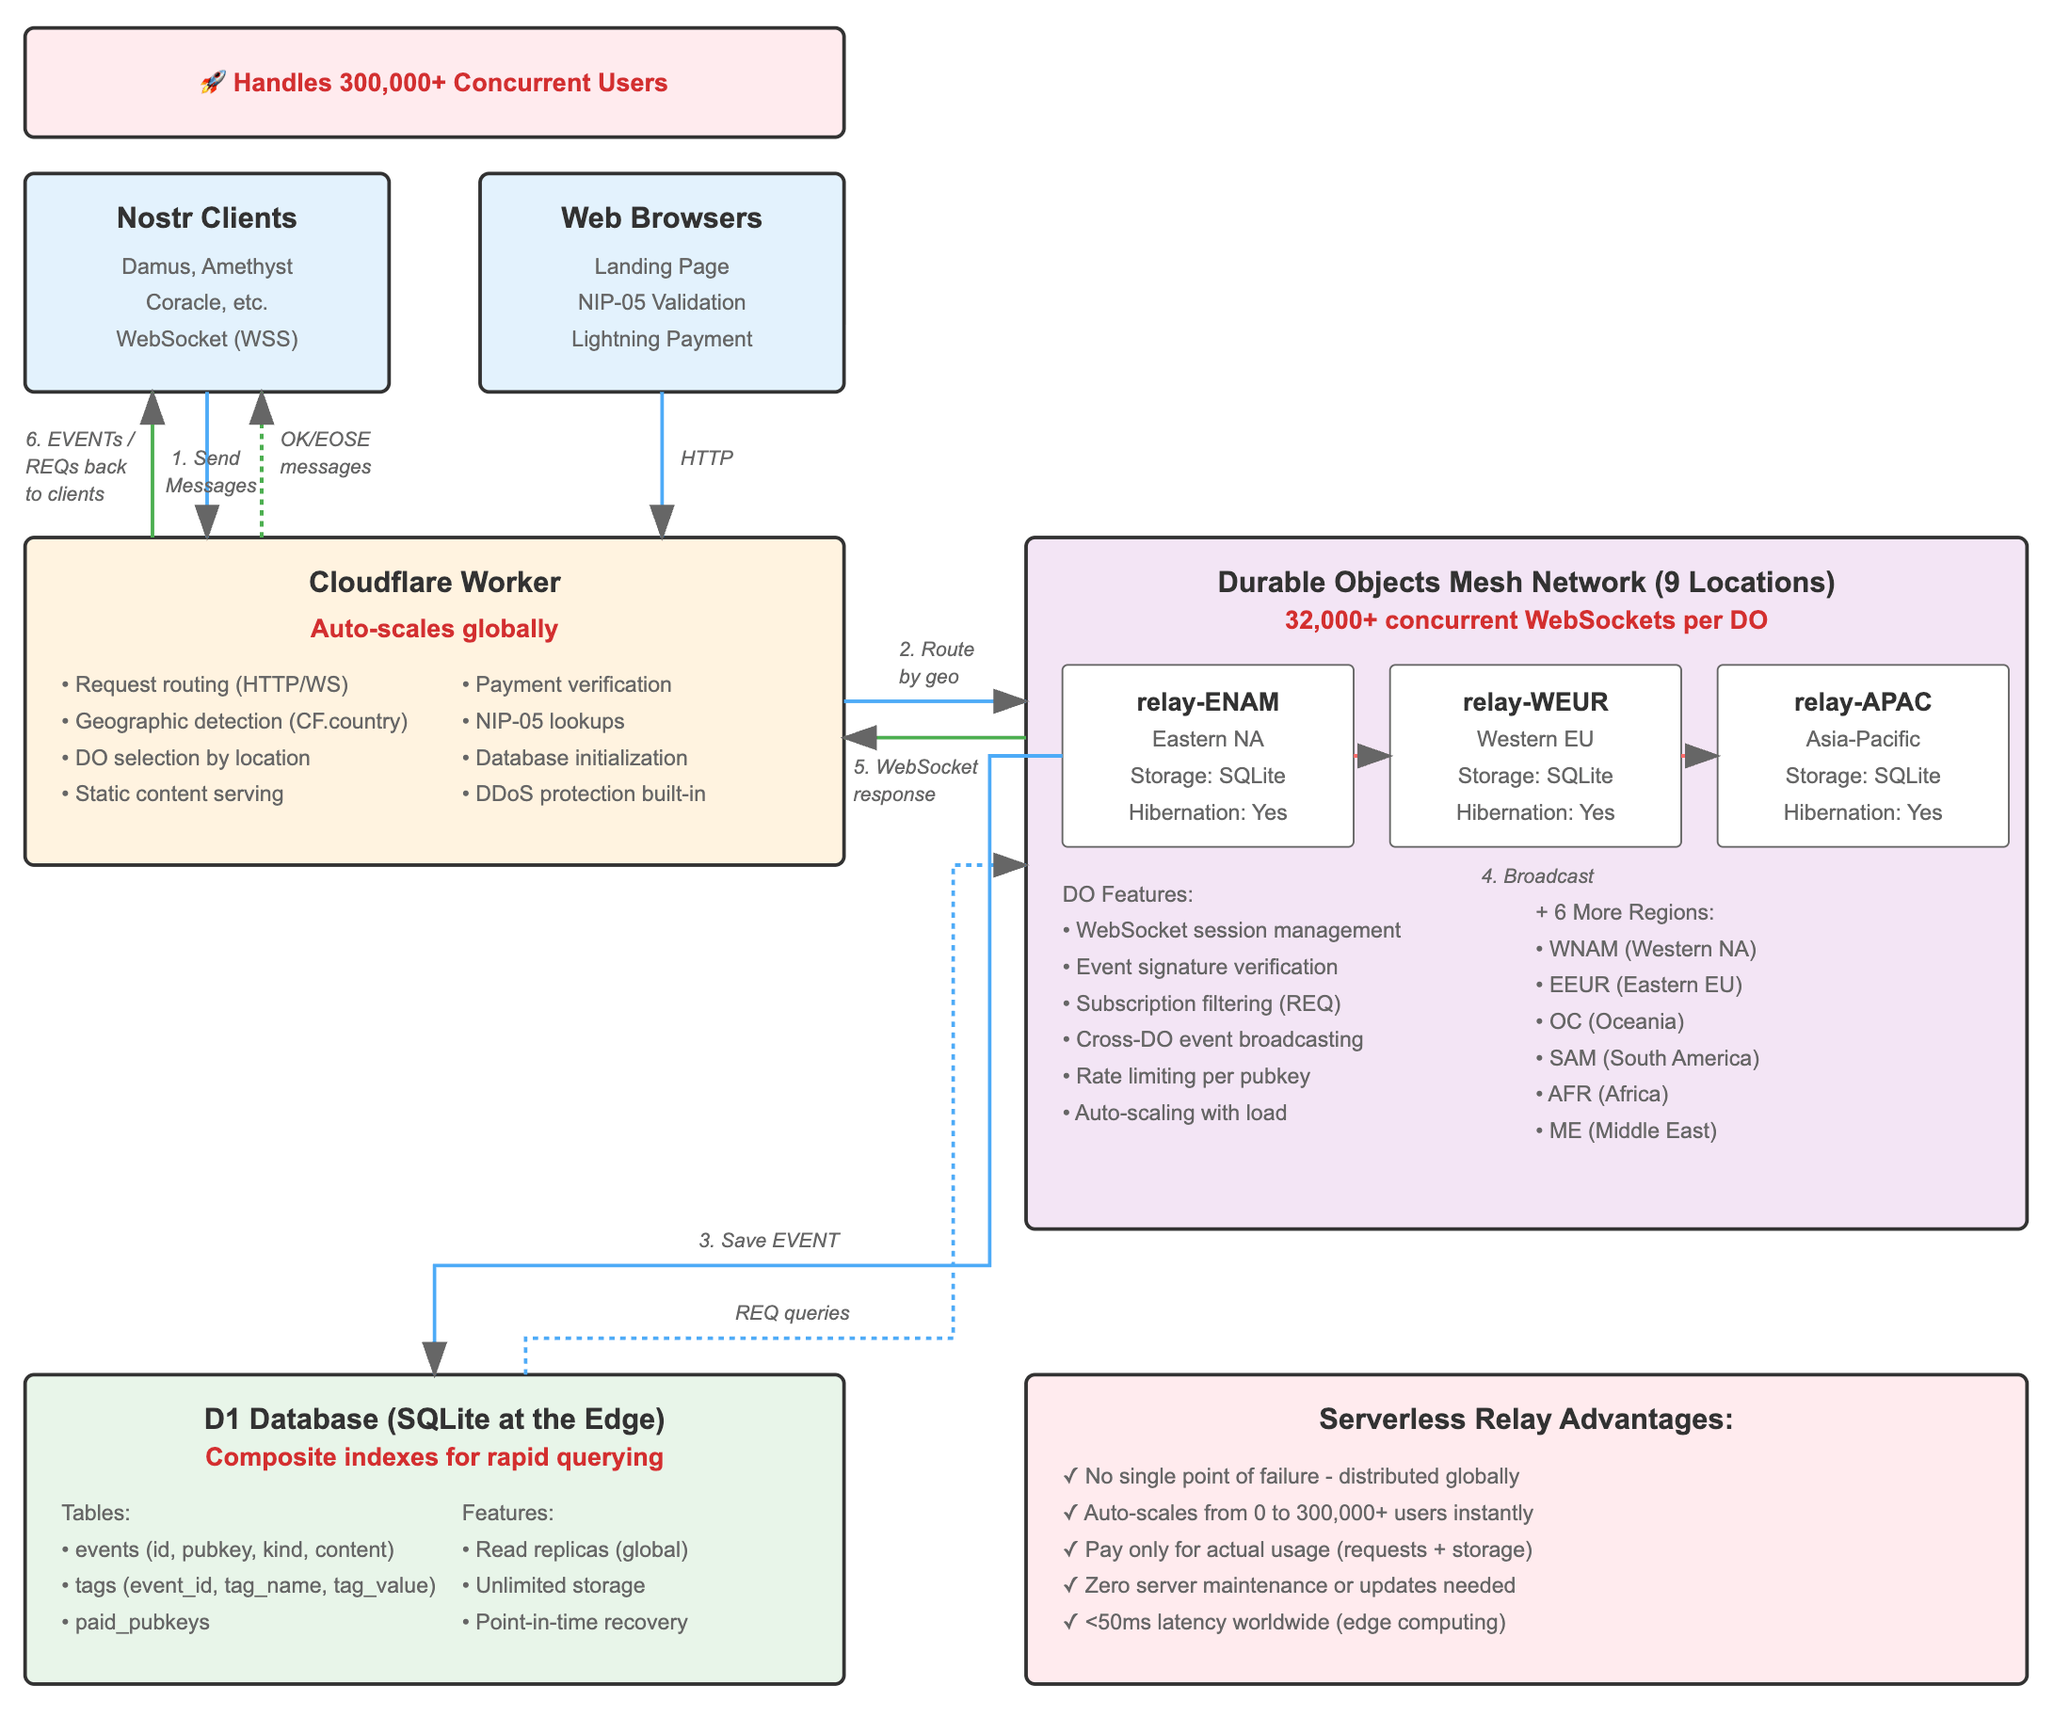
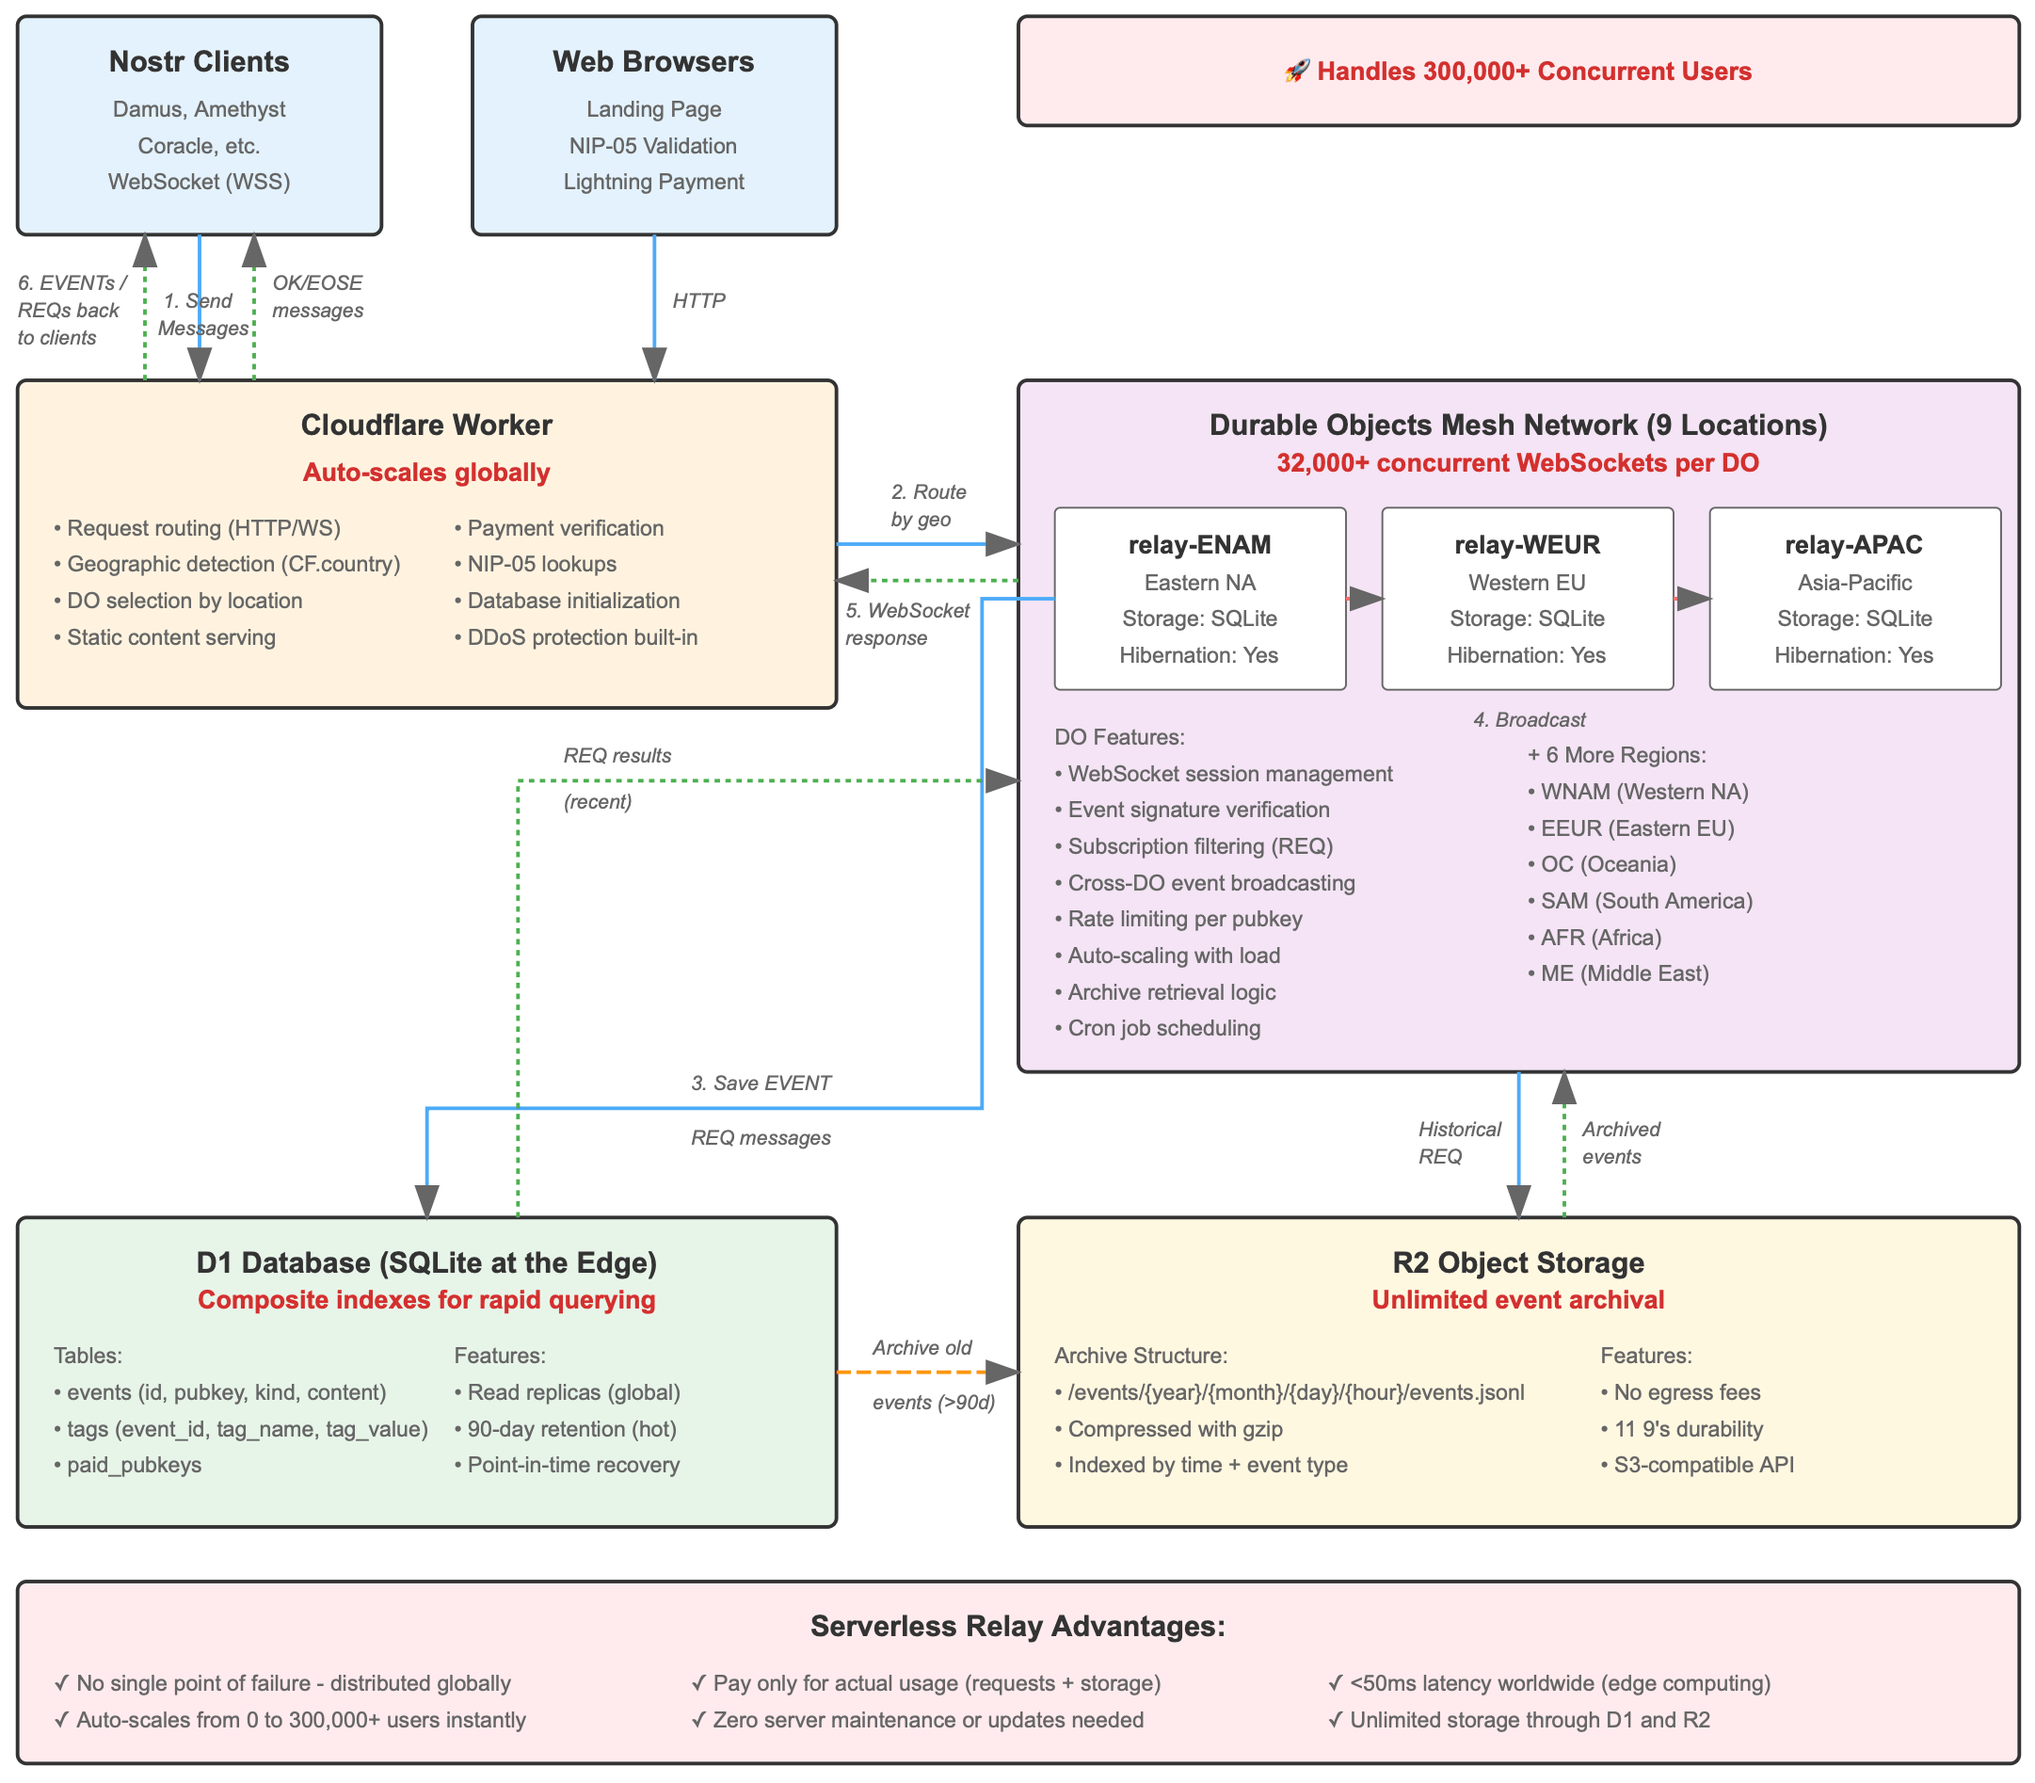
v7.2.6

diff --git a/diagram.html b/diagram.html
@@ -42,6 +42,7 @@
         .worker-box { fill: #fff3e0; }
         .do-box { fill: #f3e5f5; }
         .db-box { fill: #e8f5e9; }
+        .r2-box { fill: #fff8e1; }
         .advantage-box { fill: #ffebee; }
         
         .arrow {
@@ -62,6 +63,11 @@
         
         .arrow-response {
             stroke: #4caf50;
+        }
+        
+        .arrow-archive {
+            stroke: #ff9800;
+            stroke-dasharray: 8,3;
         }
         
         text {
@@ -114,7 +120,7 @@
     <div class="diagram-container">
         <h1>Nosflare Relay Architecture & Event Flow</h1>
         
-        <svg viewBox="0 0 1200 1000" xmlns="http://www.w3.org/2000/svg">
+        <svg viewBox="0 0 1200 1100" xmlns="http://www.w3.org/2000/svg">
             <!-- Arrow marker definition -->
             <defs>
                 <marker id="arrowhead" markerWidth="10" markerHeight="7" refX="9" refY="3.5" orient="auto">
@@ -126,11 +132,14 @@
                 <marker id="arrowhead-green" markerWidth="10" markerHeight="7" refX="9" refY="3.5" orient="auto">
                     <polygon points="0 0, 10 3.5, 0 7" fill="#4caf50" />
                 </marker>
+                <marker id="arrowhead-orange" markerWidth="10" markerHeight="7" refX="9" refY="3.5" orient="auto">
+                    <polygon points="0 0, 10 3.5, 0 7" fill="#ff9800" />
+                </marker>
             </defs>
             
             <!-- Scale indicator -->
-            <rect x="50" y="20" width="450" height="60" rx="5" class="component-box advantage-box"/>
-            <text x="275" y="55" text-anchor="middle" class="highlight-text">🚀 Handles 300,000+ Concurrent Users</text>
+            <rect x="600" y="100" width="550" height="60" rx="5" class="component-box advantage-box"/>
+            <text x="875" y="135" text-anchor="middle" class="highlight-text">🚀 Handles 300,000+ Concurrent Users</text>
             
             <!-- Client Layer -->
             <g id="clients">
@@ -199,6 +208,8 @@
                 <text x="620" y="580" class="small-text">• Cross-DO event broadcasting</text>
                 <text x="620" y="600" class="small-text">• Rate limiting per pubkey</text>
                 <text x="620" y="620" class="small-text">• Auto-scaling with load</text>
+                <text x="620" y="640" class="small-text">• Archive retrieval logic</text>
+                <text x="620" y="660" class="small-text">• Cron job scheduling</text>
                 
                 <text x="880" y="510" class="small-text">+ 6 More Regions:</text>
                 <text x="880" y="530" class="small-text">• WNAM (Western NA)</text>
@@ -222,8 +233,25 @@
                 
                 <text x="290" y="840" class="small-text">Features:</text>
                 <text x="290" y="860" class="small-text">• Read replicas (global)</text>
-                <text x="290" y="880" class="small-text">• Unlimited storage</text>
+                <text x="290" y="880" class="small-text">• 90-day retention (hot)</text>
                 <text x="290" y="900" class="small-text">• Point-in-time recovery</text>
+            </g>
+            
+            <!-- R2 Bucket -->
+            <g id="r2-storage">
+                <rect x="600" y="760" width="550" height="170" rx="5" class="component-box r2-box"/>
+                <text x="875" y="790" text-anchor="middle" class="component-title">R2 Object Storage</text>
+                <text x="875" y="810" text-anchor="middle" class="highlight-text">Unlimited event archival</text>
+                
+                <text x="620" y="840" class="small-text">Archive Structure:</text>
+                <text x="620" y="860" class="small-text">• /events/{year}/{month}/{day}/{hour}/events.jsonl</text>
+                <text x="620" y="880" class="small-text">• Compressed with gzip</text>
+                <text x="620" y="900" class="small-text">• Indexed by time + event type</text>
+                
+                <text x="920" y="840" class="small-text">Features:</text>
+                <text x="920" y="860" class="small-text">• No egress fees</text>
+                <text x="920" y="880" class="small-text">• 11 9's durability</text>
+                <text x="920" y="900" class="small-text">• S3-compatible API</text>
             </g>
             
             <!-- Arrows showing flow -->
@@ -243,24 +271,41 @@
             <!-- DO to Database - routed to center top of D1 box -->
             <path d="M 620 420 L 580 420 L 580 700 L 275 700 L 275 760" class="arrow arrow-data" marker-end="url(#arrowhead)"/>
             <text x="420" y="690" class="flow-label">3. Save EVENT</text>
+            <text x="420" y="720" class="flow-label">REQ messages</text>
+            
+            <!-- D1 to R2 - Archive flow -->
+            <path d="M 500 845 L 600 845" class="arrow arrow-archive" marker-end="url(#arrowhead-orange)"/>
+            <text x="520" y="835" class="flow-label" fill="#ff9800">Archive old</text>
+            <text x="520" y="865" class="flow-label" fill="#ff9800">events (>90d)</text>
             
             <!-- DO to DO Broadcasting -->
             <path d="M 780 420 L 800 420" class="arrow arrow-broadcast" stroke-dasharray="5,5" marker-end="url(#arrowhead-red)"/>
             <path d="M 960 420 L 980 420" class="arrow arrow-broadcast" stroke-dasharray="5,5" marker-end="url(#arrowhead-red)"/>
             <text x="850" y="490" class="flow-label" fill="#ff6b6b">4. Broadcast</text>
             
-            <!-- Database queries - from center top of D1 box -->
-            <path d="M 325 760 L 325 740 L 560 740 L 560 480 L 600 480" class="arrow arrow-data" stroke-dasharray="3,3"/>
-            <text x="440" y="730" class="flow-label">REQ queries</text>
+            <!-- Database queries - from D1 to edge of DO -->
+            <path d="M 325 760 L 325 520 L 600 520" class="arrow arrow-response" stroke-dasharray="3,3" marker-end="url(#arrowhead-green)"/>
+            <text x="350" y="510" class="flow-label">REQ results</text>
+            <text x="350" y="535" class="flow-label">(recent)</text>
+            
+            <!-- DO to R2 - Historical REQ (downward) -->
+            <path d="M 875 680 L 875 760" class="arrow arrow-data" class="arrow arrow-data" marker-end="url(#arrowhead)"/>
+            <text x="820" y="715" class="flow-label">Historical</text>
+            <text x="820" y="730" class="flow-label">REQ</text>
+            
+            <!-- R2 to DO - Historical data response (upward) -->
+            <path d="M 900 760 L 900 680" class="arrow arrow-response" stroke-dasharray="3,3" marker-end="url(#arrowhead-green)"/>
+            <text x="910" y="715" class="flow-label" fill="#4caf50">Archived</text>
+            <text x="910" y="730" class="flow-label" fill="#4caf50">events</text>
             
             <!-- Response flow back to clients -->
             <!-- DO to Worker -->
-            <path d="M 600 410 L 500 410" class="arrow arrow-response" marker-end="url(#arrowhead-green)"/>
+            <path d="M 600 410 L 500 410" class="arrow arrow-response" stroke-dasharray="3,3" marker-end="url(#arrowhead-green)"/>
             <text x="505" y="430" class="flow-label" fill="#4caf50">5. WebSocket</text>
             <text x="505" y="445" class="flow-label" fill="#4caf50">response</text>
             
             <!-- Worker to Client (EVENT) -->
-            <path d="M 120 300 L 120 220" class="arrow arrow-response" marker-end="url(#arrowhead-green)"/>
+            <path d="M 120 300 L 120 220" class="arrow arrow-response" stroke-dasharray="3,3" marker-end="url(#arrowhead-green)"/>
             <text x="50" y="250" class="flow-label" fill="#4caf50">6. EVENTs /</text>
             <text x="50" y="265" class="flow-label" fill="#4caf50">REQs back</text>
             <text x="50" y="280" class="flow-label" fill="#4caf50">to clients</text>
@@ -272,14 +317,17 @@
             
             <!-- Serverless Advantages Box -->
             <g id="advantages">
-                <rect x="600" y="760" width="550" height="170" rx="5" class="component-box advantage-box"/>
-                <text x="875" y="790" text-anchor="middle" class="component-title">Serverless Relay Advantages:</text>
+                <rect x="50" y="960" width="1100" height="100" rx="5" class="component-box advantage-box"/>
+                <text x="600" y="990" text-anchor="middle" class="component-title">Serverless Relay Advantages:</text>
                 
-                <text x="620" y="820" class="small-text">✓ No single point of failure - distributed globally</text>
-                <text x="620" y="840" class="small-text">✓ Auto-scales from 0 to 300,000+ users instantly</text>
-                <text x="620" y="860" class="small-text">✓ Pay only for actual usage (requests + storage)</text>
-                <text x="620" y="880" class="small-text">✓ Zero server maintenance or updates needed</text>
-                <text x="620" y="900" class="small-text">✓ &lt;50ms latency worldwide (edge computing)</text>
+                <text x="70" y="1020" class="small-text">✓ No single point of failure - distributed globally</text>
+                <text x="70" y="1040" class="small-text">✓ Auto-scales from 0 to 300,000+ users instantly</text>
+                
+                <text x="420" y="1020" class="small-text">✓ Pay only for actual usage (requests + storage)</text>
+                <text x="420" y="1040" class="small-text">✓ Zero server maintenance or updates needed</text>
+                
+                <text x="770" y="1020" class="small-text">✓ &lt;50ms latency worldwide (edge computing)</text>
+                <text x="770" y="1040" class="small-text">✓ Unlimited storage through D1 and R2</text>
             </g>
         </svg>
         
@@ -296,7 +344,7 @@
             
             <div class="advantage-item">
                 <h4>🚀 Infinite Scalability</h4>
-                <p>Handles viral growth automatically. From 10 to 300,000+ concurrent users without any configuration changes. Traditional servers require manual scaling.</p>
+                <p>Handles viral growth automatically. From 10 to 300,000+ concurrent users without any configuration changes. Traditional relays require manual scaling.</p>
             </div>
             
             <div class="advantage-item">
